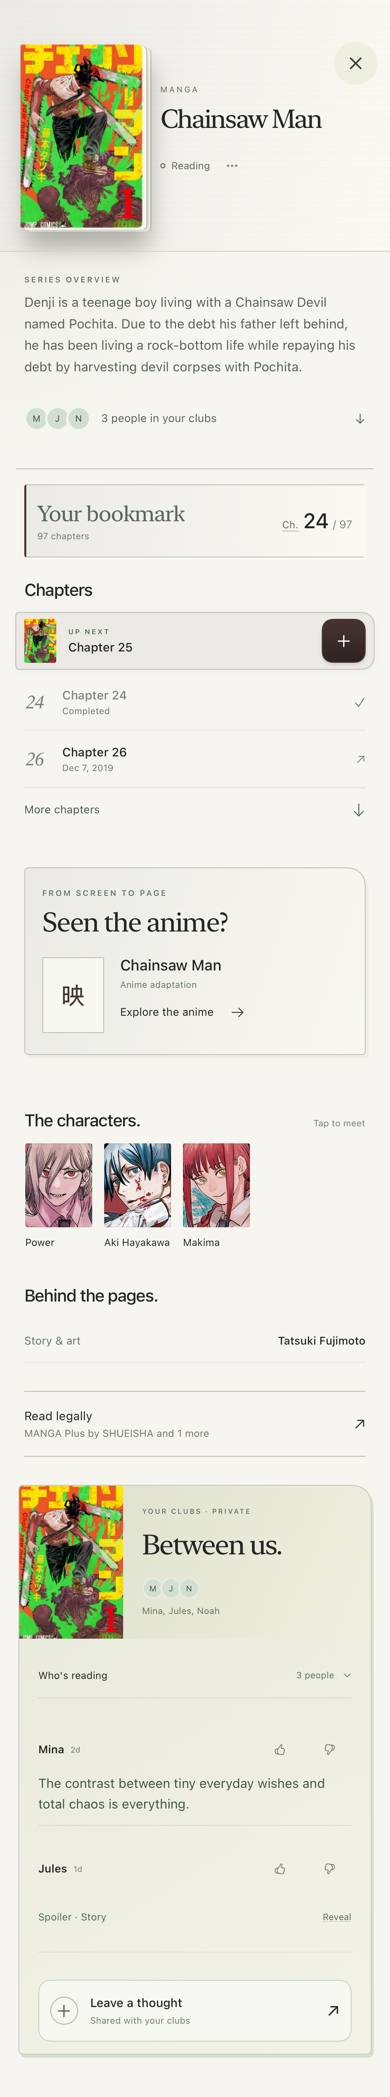
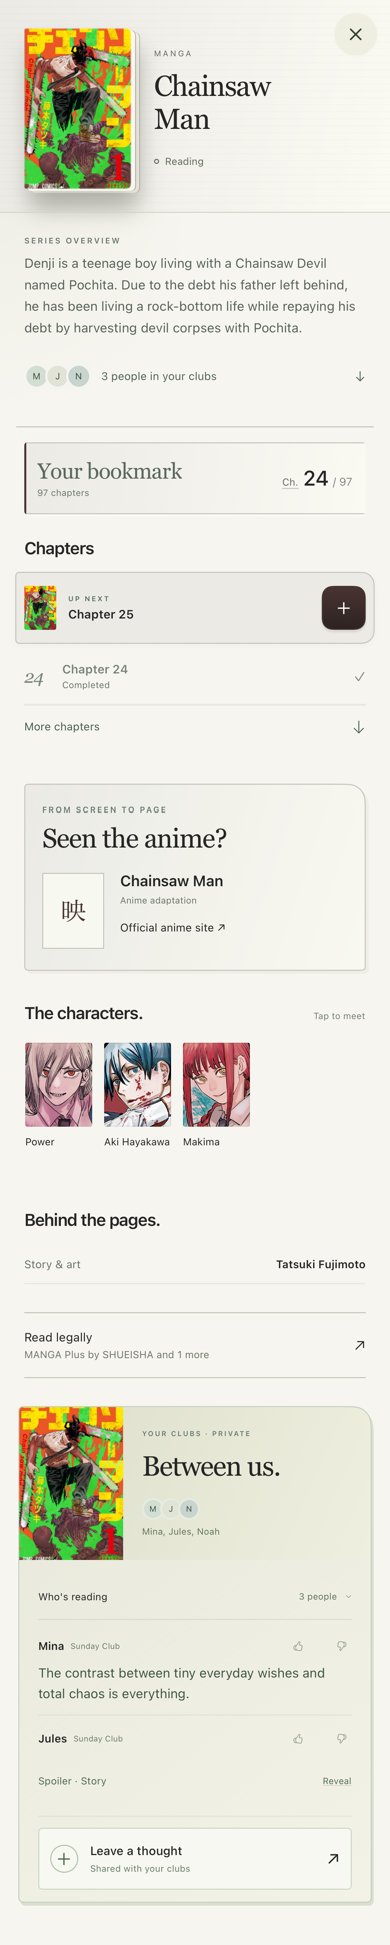
Prototype fidelity round 2 (detail): rhythm pass, re-rendered detail pages, review section
- Between us notes: the card spaces its own rows (13/0/14 note rhythm, 8 pt text margin, compose
  m 11), byline at its 15.4 line; the dot and halo draw over the seasons rule.
- Section headings at 23.8/25.2 line height, characters at the 30 pt section margin with a fixed
  two-line name box, the Seen-the-anime card's bottom margin collapsing into the next section.
- Hero mark centred on the title line; manga title spacing for Georgia; a word wider than the
  folio column shrinks before it is cut.
- Story foot: 4 pt (anime) / 15 pt (manga) before the club row, 18 pt after an open expectation line.
- Re-rendered docs/prototype-fidelity/native/detail/ under en-GB; FIDELITY_REVIEW.md gains a
  self-contained Detail section (every round-2 finding fixed or justified, open items named).

Claude-Session: https://claude.ai/code/session_01EXnQobKNDuiWFN5zm6WcdH

diff --git a/Kuro/Views/DetailPages/FriendsActivitySection.swift b/Kuro/Views/DetailPages/FriendsActivitySection.swift
@@ -79,7 +79,8 @@ struct FriendsActivitySection: View {
         let origin = actionScope.capture(session: social.accountSession)
         let permission = social.friendScopeGeneration
         if hasClubs {
-            VStack(alignment: .leading, spacing: KuroDesignSpacing.md) {
+            // The prototype card spaces its rows itself (note padding 13/0/14, compose m 11).
+            VStack(alignment: .leading, spacing: prototypeStyle ? 0 : KuroDesignSpacing.md) {
                 if showsHeading {
                     EditorialLayout.divider()
 
@@ -102,6 +103,7 @@ struct FriendsActivitySection: View {
                     if !activity.friends_tracking.isEmpty {
                         if prototypeStyle {
                             rosterDisclosure(activity.friends_tracking)
+                                .padding(.bottom, 3)
                         } else {
                             friendTrackingPills(activity.friends_tracking)
                         }
@@ -273,7 +275,7 @@ struct FriendsActivitySection: View {
 
     @ViewBuilder
     private func commentsSection(_ comments: [SocialActivityStore.TitleComment]) -> some View {
-        VStack(alignment: .leading, spacing: KuroDesignSpacing.sm) {
+        VStack(alignment: .leading, spacing: prototypeStyle ? 0 : KuroDesignSpacing.sm) {
             ForEach(comments) { comment in
                 commentRow(comment)
             }
@@ -299,6 +301,8 @@ struct FriendsActivitySection: View {
                 Text(comment.display_name ?? String(comment.user_id.prefix(6)))
                     .font(prototypeStyle ? .kuroCustom(11, weight: .semibold, relativeTo: .footnote, maxSize: 24) : .kuroCaption(weight: .medium))
                     .foregroundColor(prototypeStyle ? .kuroInk : .kuroBlack65)
+                    // The byline's 15.4 pt line (prototype `.note-byline b`).
+                    .padding(.vertical, prototypeStyle ? 1.5 : 0)
 
                 // Prototype byline: the shared club's name (`.note-byline span`) when it is provable;
                 // otherwise the note's age. The age stays in the VoiceOver label either way.
@@ -368,6 +372,7 @@ struct FriendsActivitySection: View {
                         .contentShape(Rectangle())
                     }
                     .buttonStyle(.plain)
+                    .padding(.top, 8)
                     .accessibilityHint(KuroLocale.text("Reveals a club member's spoiler", "Zeigt den Spoiler eines Clubmitglieds"))
                 } else {
                 Button(KuroLocale.text("Spoiler · Reveal", "Spoiler · Anzeigen")) { revealed.insert(comment.id) }
@@ -378,7 +383,8 @@ struct FriendsActivitySection: View {
                 Text(comment.text)
                     .font(prototypeStyle ? .kuroCustom(13, relativeTo: .callout, maxSize: 28) : .kuroBody(weight: .light))
                     .foregroundColor(prototypeStyle ? Color(hex: "405646") : .kuroBlack80).lineSpacing(prototypeStyle ? 5 : 4)
-                    .padding(.top, prototypeStyle ? 4 : 0)
+                    // The prototype's 8 pt margin plus the 13/20.8 line's half-leading.
+                    .padding(.top, prototypeStyle ? 7 : 0)
                 if revealed.contains(comment.id) {
                     Button(KuroLocale.text("Hide spoiler", "Spoiler ausblenden")) { revealed.remove(comment.id) }.frame(minHeight: 44)
                 }
@@ -433,7 +439,8 @@ struct FriendsActivitySection: View {
                 }
             }
         }
-        .padding(.top, prototypeStyle ? 13 : 6)
+        // 13/0/14 as measured, plus the SF ascent the CSS line box adds above the byline.
+        .padding(.top, prototypeStyle ? 15 : 6)
         .padding(.bottom, prototypeStyle ? 14 : 6)
         .overlay(alignment: .bottom) {
             if prototypeStyle { Rectangle().fill(Color(hex: "6F8671", opacity: Double(0x20) / 255)).frame(height: 1) }

diff --git a/Kuro/Views/DetailPages/Prototype/MangaDetailSections.swift b/Kuro/Views/DetailPages/Prototype/MangaDetailSections.swift
@@ -662,11 +662,14 @@ struct MangaDetailHero<Mark: View>: View {
                 .font(.detailGeorgia(titleSize, relativeTo: .title1))
                 .tracking(-1)
                 .foregroundStyle(Color.kuroInk)
-                // Review focus 1: three lines at most, then truncate (it wraps; it never shrinks).
+                // Review focus 1: three lines at most; a word wider than the column shrinks a little
+                // before anything is cut (a two-line title such as "Chainsaw / Man" keeps its size).
                 .lineLimit(3)
+                .minimumScaleFactor(0.8)
                 .fixedSize(horizontal: false, vertical: true)
-                .padding(.top, 9)
-                .padding(.bottom, 15)
+                // m 9/0/15 around a 31.9 pt CSS line; Georgia's own line box sits a little higher.
+                .padding(.top, 11)
+                .padding(.bottom, 19)
                 .accessibilityAddTraits(.isHeader)
             mark()
         }
@@ -1108,7 +1111,8 @@ struct MangaAdaptationCard: View {
         .overlay(shape.strokeBorder(material.edge.color, lineWidth: 1))
         .background { shape.fill(MangaInk.guideShadow).offset(x: 3, y: 3) }
         .padding(.top, 27)
-        .padding(.bottom, 30)
+        // The card's 30 pt bottom margin collapses into the next section's own 30 pt top (CSS).
+        .padding(.bottom, 0)
     }
 
     /// The card's one link: the official site when known, else the in-app route.

diff --git a/Kuro/Views/DetailPages/Prototype/AnimeDetailSections.swift b/Kuro/Views/DetailPages/Prototype/AnimeDetailSections.swift
@@ -734,7 +734,9 @@ struct DetailStorySection: View {
                         .padding(.top, 12)
                 }
             }
-            Spacer().frame(height: 18)
+            // The section's foot: the open expectation line's 18 pt margin; otherwise the hook block's
+            // 4 pt (anime) or the folio's 15 pt before the club row (manga), as measured.
+            Spacer().frame(height: expanded && expectation != nil ? 18 : (serifHook ? 15 : 4))
         }
         .frame(maxWidth: .infinity, alignment: .leading)
     }
@@ -830,6 +832,8 @@ struct DetailSeasonsSection: View {
                 .padding(.horizontal, 1)
             }
             .scrollClipDisabled()
+            // The dot and its halo sit over the rule (the rule is drawn first).
+            .zIndex(1)
             Rectangle().fill(DetailInk.thread).frame(height: 1)
         }
         .padding(.bottom, 0)
@@ -1692,9 +1696,11 @@ struct DetailCharactersRail: View {
                 .padding(.horizontal, 1)
             }
             .scrollClipDisabled()
-            .padding(.top, 8)
+            .padding(.top, 13)
         }
-        .padding(.top, 25)
+        // 30 pt above the heading: the prototype's section margin (the card above it, when there is one,
+        // collapses its own 30 pt bottom margin into this one).
+        .padding(.top, 30)
         .sheet(item: $selected) { character in
             CharacterDetailSheet(character: character)
         }

diff --git a/Kuro/Views/DetailPages/Prototype/DetailPage.swift b/Kuro/Views/DetailPages/Prototype/DetailPage.swift
@@ -153,6 +153,8 @@ struct DetailSectionHeading: View {
             .font(.detailSF(size, .semibold, relativeTo: .title3))
             .tracking(tracking)
             .foregroundStyle(Color.kuroInk)
+            // 17/23.8 and 18/25.2 as measured.
+            .detailLineHeight(size * 1.4, size: size, relativeTo: .title3)
             .accessibilityAddTraits(.isHeader)
     }
 
@@ -231,10 +233,12 @@ struct DetailHero<Mark: View>: View {
                 // Side by side while the title keeps at least 140 pt beside the mark; otherwise the mark
                 // goes under the title (the prototype's ≤360 single column, and long German marks).
                 ViewThatFits(in: .horizontal) {
-                    HStack(alignment: .lastTextBaseline, spacing: 12) {
+                    // The prototype's grid centres the mark on the title's (last) line.
+                    HStack(alignment: .bottom, spacing: 12) {
                         titleBlock
                             .frame(minWidth: 140, idealWidth: 140, maxWidth: .infinity, alignment: .leading)
                         mark()
+                            .padding(.bottom, 8)
                     }
                     VStack(alignment: .leading, spacing: 8) {
                         titleBlock

diff --git a/docs/prototype-fidelity/FIDELITY_REVIEW.md b/docs/prototype-fidelity/FIDELITY_REVIEW.md
@@ -98,3 +98,58 @@ Home keeps "{title} ›" and "{name} shared a thought" until the helper exists. 
 
 - The Home manga findings list given to this pass was cut off mid-item at "Calendar day label date format". That item is fixed with the anime one (note C). Any findings after it were not received.
 - The SEC-2 fix text was cut off at "call it from the". It was implemented as the Profile "Clear cache" call.
+
+## Detail anime and manga (round 2)
+
+Pairs: `ref-detail-anime-390.png` / `native/detail/detail-anime-390.png`, `ref-detail-anime-top-390.png` / `detail-anime-top-390.png`, `ref-detail-manga-390.png` / `detail-manga-390.png`, `ref-detail-manga-top-390.png` / `detail-manga-top-390.png`. All detail renders were re-made under `-testLanguage en -testRegion GB`. Compare them unscaled: the reference sheet is 356 pt wide, and the native page fills the 390 pt window, so x offsets differ by the 17 pt sheet inset. The fixture host now drops the window's top inset (`safeAreaRegions = []`), because a page sheet has none. The `*-top-390` references show the sheet inside the app (header, 55 pt offset, 24 pt sheet radius). The native top renders are the page alone, without the system sheet chrome.
+
+### Detail anime
+
+| Finding | Status | What changed or why it stays |
+|---|---|---|
+| w550 headings and titles read as regular | **fixed** | Every w550 role in the detail now uses `.semibold`: section headings, "The sound of it.", song titles, Up next and row titles, the original-story title, credit names and the adaptation title. `.medium` stays only on w500 roles. Section headings also get their 23.8 / 25.2 line height (`detailLineHeight`). |
+| D2 synopsis with a dead "About this season +" | **fixed** | Synopsis-led (no `detail_copy` hook): the row appears only when the synopsis is cut at five lines or an expectation line waits behind it (`DetailStoryDisclosure`; two hidden probes measure the cut). It reads "More" / "Show less" ("Mehr" / "Weniger zeigen"). The fixture keeps the row because its genres make an expectation line. Leading with the synopsis is **justified**: hooks come only from `detail_copy`, and the series flags are off for live users. The hook-led state matches in `detail-anime-bundle-390.png`. |
+| Overflow "···" beside the status mark | **fixed** | Removed. The mark is a `Menu` with a primary action, as §50 describes: a tap opens List settings, and touch-and-hold (or VoiceOver's actions) opens the menu with Save/Remove, Verdict, Where to watch, Add to a club and Share. The hint says "Touch and hold for more actions." |
+| D1 band geometry and close position | **fixed** | The mark's 44 pt target no longer adds height to the band (`.frame(minHeight: 44).padding(.vertical, -15)`), so the heading block is 4/24/19 around the title. The mark is centred on the title line. The close sat 29 pt low only because of the fixture window's inset. It now sits 12 pt from the top. The artwork keeps the 150.6/354 ratio at the full 390 width. |
+| D6 Up next row height, key position and shadow | **fixed** | The summary is at least 58 pt with padding 7/9, so the row is 74. The key is centred (its one-sided 7 pt top padding is gone). The row shadow is on the row's shape, so it no longer doubles onto the key. |
+| D8 song rows and footer | **fixed** | Rows are 78 pt (padding 12/0 around a 54 pt block, with line heights 11.2 / 16.25 / 14). A `#ffffff14` rule sits under every row, the last included, so the attribution has its rule and the 13 pt margin. "via AnimeThemes" stays in place of the sample "Find on Spotify · track links not yet matched": **justified**, it is the real source (§8.13). |
+| D4 current tile ring, ribbon, "Current" | **fixed** | Added the 1 pt `#718478` inset ring and a 7 × 18 ribbon with a V notch in `base`. "Current" is `.medium`; the spec measures w400, and white 8 pt on the dark tile reads heavier. |
+| D4 selection dot cut in half | **fixed** | The tile row draws above the thread rule, and the seasons section draws above the progress card. The 3 pt `#f1f3ef` halo now cuts the rule as in the reference. |
+| D4 tile foot dash and stripes | **fixed** | The dash is 6 × 2. The light tile's ruling fades in toward the foot. |
+| D6 episode row rules | **fixed** | The rule sits under each row, so one closes the list before "More episodes". |
+| D7 title to author spacing | **fixed** | Title 17/23.8 with m 6/0/2, author 10/14. |
+| D10 credit rows | **fixed** | 40.4 pt rows (12/0 around a 15.4 line). The 44 pt touch target reaches 2 pt past each rule through its content shape. The role colour was already `#69766c`. |
+| D3 / D11 avatar tints | **fixed** | The three prototype fills `#d3ded3`, `#e2e3d7` and `#c8d4ce` cycle by index (`DetailAvatars.fillHex`). |
+| D11 byline and reactions | **fixed** | The byline names the club the author provably shares with the viewer: the viewer's only club, or a club whose cached roster lists the author (`DetailBetweenUs.clubName`). Otherwise it shows the note's age; it never guesses. The age stays in the VoiceOver label. The reactions are a live feature, so they **stay** (spec §50: nothing live is removed). They now sit as quiet 9 pt keys in an overlay on the byline's trailing edge, which adds no height, so the 13/0/14 note rhythm and the ~26 pt divider-to-byline gap return. |
+| D11 "Spoiler · Story" vs "Spoiler · Season 2" | **justified** | The stored scope is only none/story/ending (`title_comments` check). No season is recorded. |
+| "Hidden Inventory / Shibuya Incident" season title, "Preview" notes, sample footnote | **justified** | Arc names and the "Preview"/sample lines are prototype sample data (§7.2). The catalogue has no arc name. |
+| Song kickers "Opening · Hidden Inventory" | **justified** | AnimeThemes gives the sequence and episode range ("Opening 1 · Ep. 1–5"), not arc names. |
+| Close control ring | **justified** | The reference's grey ring around the close is the capture's focus outline. |
+
+### Detail manga
+
+| Finding | Status | What changed or why it stays |
+|---|---|---|
+| Typeface for every serif element | **fixed** | Georgia via a detail-local `Font.detailGeorgia` (Georgia / Georgia-Italic, Dynamic Type scaled and capped like `kuroCustom`) on the title, the hook, "Your bookmark", the italic chapter numbers, "Seen the anime?" and "Between us." (both media). The shared `kuroEditorial` token in `KuroDesignSystem.swift` still maps to New York; that file belongs to another lane. |
+| D1 title layout and band size | **fixed** | The band has padding 28/24/24 and a cover of at most 107.1 pt (35 % of the prototype's 306 pt), and the heading column is at most 176 pt. "Chainsaw / Man" therefore breaks onto two lines and the band is about 214. A long title still wraps to three lines; a word wider than the column shrinks to 0.8 before truncation. |
+| D1 overflow key | **fixed** | As on anime: the mark carries the menu. |
+| D3 avatar tints | **fixed** | As on anime. |
+| D6 extra "26 Chapter 26" row with ↗ | **fixed** | Collapsed and tracked: only the finished row follows Up next (`MangaChaptersSection.collapsedRows`). Chapter rows have no ↗ key. An unread row that opens the reading service says so in its VoiceOver hint. |
+| D7 links | **fixed** | The fixture sets the adaptation's official site, and the card shows "Official anime site ↗" as its one link. The 映 tile and the title open the anime in the app (the live route, kept without an extra link). "Explore the anime →" shows only when no site is known. |
+| D7 "I've watched the anime" row | **justified** | It needs the series bundle's season guide (series flags off for live users). Shown without coverage, it could only say "unknown". The bundle render (`detail-manga-bundle-390.png`) shows the rule, the 52 pt row and the full card. |
+| D7 映 glyph | **fixed** | Hiragino Mincho (`HiraMinProN-W3`). The system serif falls back to Gothic for CJK. |
+| Section heading weight | **fixed** | `.semibold`, tracking −0.4, 23.8 line. |
+| Characters to credits spacing | **fixed** | The name box keeps two 15 pt lines (44 with the 9 pt top), and sections take the prototype's 30 pt top margin, with the Seen-the-anime card's bottom margin collapsing into it. Names to "Behind the pages." is now 76 pt, as in the reference. |
+| D11 reaction keys, rhythm, spoiler, chevron, card corners | **fixed / justified** | The reactions stay as quiet overlay keys (see anime). The rhythm is about 27 pt from the divider to "Mina" and about 43 pt from "Jules" to the spoiler line. The chevron is 6 pt light. "Leave a thought" uses a 4 pt radius on the folio card. The spoiler label stays SF 10, the measured size (spec D11 `spoiler` 10/14); the reviewer's 11–12 is an estimate. |
+| "Read with the publisher · Chapters & availability at VIZ", "English publisher VIZ Media" | **justified** | The legal read links carry no publisher marker, and the catalogue has no publisher field. The row reads "Read legally" with the real service name. |
+| Top viewport | **fixed** | Follows from the band, hero and chapter fixes. The rest is the synopsis-led story (justified above). |
+
+### Pathway findings (detail files)
+
+| Finding | Status | What changed |
+|---|---|---|
+| BLOCKER: Up next +1 on a Planned title stayed Planned | **fixed** | `DetailAdvance` sends `LibraryEdit(status: .set(.current), progress: .set(n))` through `LibraryActions.apply` when the entry is Planned. Every other status stays progress-only, and an untracked title is created as Watching/Reading. Undo reverts the whole change: the count and the saved status, and a row the +1 created is removed. Pinned by `DetailPathwayTests.plannedAdvanceReachesBusyHome`: Planned → +1 → `HomeShelfPolicy.scene == .inProgress`, `showsNewAccount == false`, and Undo returns to Planned 0. |
+| MAJOR: "Saved · remove" removed in one tap | **fixed** | The item reads "Remove from list" ("Von der Liste entfernen"). It asks first unless the entry is a bare plan (`DetailRemoval.needsConfirmation`). The toast "Removed from your list." has Undo, which re-saves every field of the removed row. Pinned by `removalUndoRestoresTheRow`. |
+| Read failures shown as missing sections | **fixed (ladder) / open (others)** | A ladder answer without a coverage status is a failed read (`DetailReadState.ladderFailed`). The page then shows `KuroStateView(.failed, layout: .inline)` with Try again (`reloadToken`). Where to watch/read says "Still checking where to watch/read" while its read is out, instead of "no link". **Open:** the episode, chapter, credit and link reads in `CatalogStore` / `ProviderAvailabilityStore` answer a failure with `[]`, so the page cannot tell failure from none. Those owners need a throwing read. |
+| Loading/failed sheet without a close | **fixed** | The loader's loading and failed states carry a neutral `DetailCloseButton`, and the sheet shows its grabber until the page has loaded (`DetailLoaderChrome`). |
+| Credit rows without a target were buttons | **fixed** | Credit rows without a target are static text (`DetailCreditRow.isInteractive`). Episode rows are buttons only when they have details (`AnimeUnitsSection.isExpandable`). |
